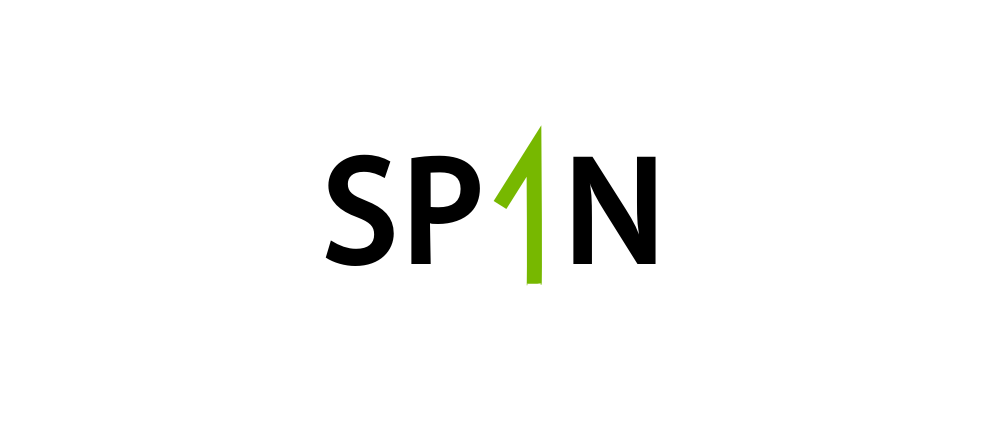
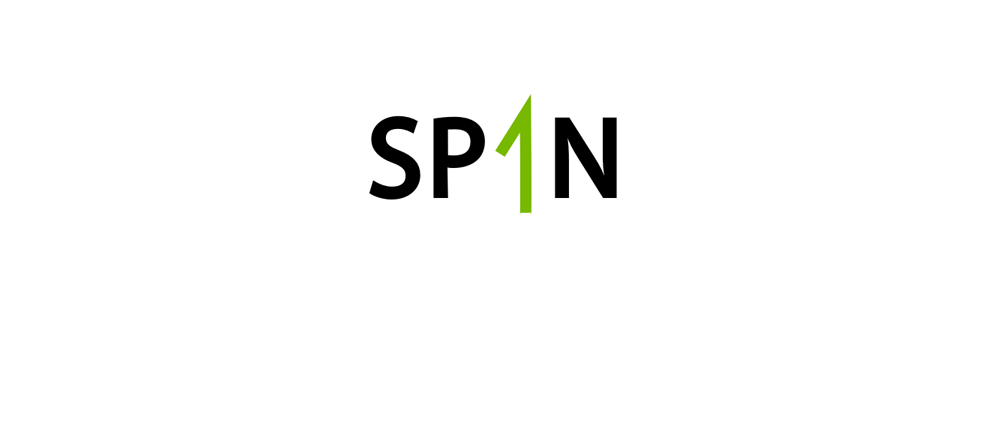
changed font to Open Sans

Changed region(s): [[0.31, 0.2106, 0.682, 0.662]]

diff --git a/assets/css/style.css b/assets/css/style.css
@@ -8,6 +8,8 @@
 
 @font-face{font-family:'FontAwesome';src:url('font/fontawesome-webfont.eot?v=4.0.1');src:url('font/fontawesome-webfont.eot?#iefix&v=4.0.1') format('embedded-opentype'),url('font/fontawesome-webfont.woff?v=4.0.1') format('woff'),url('font/fontawesome-webfont.ttf?v=4.0.1') format('truetype'),url('font/fontawesome-webfont.svg?v=4.0.1#fontawesomeregular') format('svg');font-weight:normal;font-style:normal}
 
+
+
 /*********************************************************************************/
 /* Basic                                                                         */
 /*********************************************************************************/
@@ -21,16 +23,16 @@
 
 	body,input,textarea,select
 	{
-		font-family: 'Roboto', sans-serif;
+		font-family: 'Open Sans';
 		font-size: 11pt;
-		font-weight: 300;
-		line-height: 1.75em;
+		font-weight: 500;
+		line-height: 20px;
 		color: #777;
 	}
 
 	h1,h2,h3,h4,h5,h6
 	{
-		font-weight: 300;
+		font-weight: 500;
 		color: #777;
 	}
 	
@@ -47,7 +49,7 @@
 		
 	strong, b
 	{
-		font-weight: 500;
+		font-weight: 700;
 		color: #000000;
 	}
 	
@@ -785,7 +787,7 @@
 			top: 0;
 			width: 100%;
 			height: 100%;
-			background: rgba(64,64,64,0.125);
+			background: rgba(64,64,64,0.25);
 		}
 
 /*********************************************************************************/
@@ -812,7 +814,7 @@
 			font-size: 7em;
 			color: #FFF;
 			letter-spacing: -0.05em;
-			margin: 0 0 0.125em 0;
+			margin: 0.4em 0 0.3em 0;
 		}
 		
 		#logo span

diff --git a/_includes/nav.html b/_includes/nav.html
@@ -5,9 +5,10 @@
 			{% assign current = page.url | downcase | split: '/' %}
 			<li {% if current[1] == 'index.html' %}class='current'{% endif %}><a href="/index.html">Homepage</a></li>
 			<li {% if current[1] == 'blog' %}class='current'{% endif %}><a href="/blog">Blog</a></li>
-			<li {% if current[1] == 'left-sidebar.html' %}class='current'{% endif %}><a href="/left-sidebar.html">Left Sidebar</a></li>
+<!--			<li {% if current[1] == 'left-sidebar.html' %}class='current'{% endif %}><a href="/left-sidebar.html">Left Sidebar</a></li>
 			<li {% if current[1] == 'right-sidebar.html' %}class='current'{% endif %}><a href="/right-sidebar.html">Right Sidebar</a></li>
 			<li {% if current[1] == 'no-sidebar.html' %}class='current'{% endif %}><a href="/no-sidebar.html">No Sidebar</a></li>
+			-->
 		</ul>
 	</nav>
 </div>

diff --git a/_layouts/default.html b/_layouts/default.html
@@ -10,7 +10,8 @@ Released for free under the Creative Commons Attribution 3.0 license (templated.
 	<meta http-equiv="content-type" content="text/html; charset=utf-8" />
 	<meta name="description" content="" />
 	<meta name="keywords" content="" />
-	<link href='http://fonts.googleapis.com/css?family=Roboto:400,100,300,700,500,900' rel='stylesheet' type='text/css'>
+	<!--<link href='http://fonts.googleapis.com/css?family=Roboto:400,100,300,700,500,900' rel='stylesheet' type='text/css'>-->
+	<link rel="stylesheet" type="text/css" href="http://fonts.googleapis.com/css?family=Open+Sans" />
 	<script src="http://ajax.googleapis.com/ajax/libs/jquery/1.11.0/jquery.min.js"></script>
 	<script src="/assets/js/skel.min.js"></script>
 	<script src="/assets/js/skel-panels.min.js"></script>
